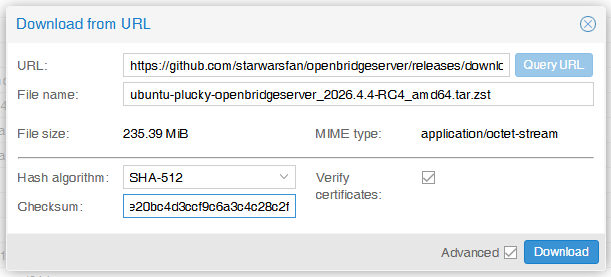
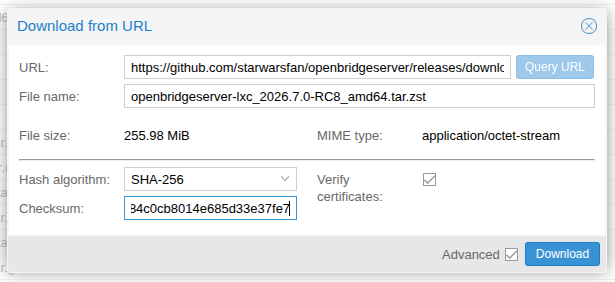
Update download instructions for LXC template

diff --git a/README.de.md b/README.de.md
@@ -69,15 +69,21 @@ Das LXC-Template enthält ein vollständiges Ubuntu 26.04-System mit **open brid
 
 **Schritt 1 — Template herunterladen**
 
-1. Auf der [Release-Seite](../../releases/latest) die URL der `.tar.zst`-Datei sowie den SHA512-Hash aus dem Abschnitt **LXC Template** kopieren.
+1. Auf der [Release-Seite](../../releases/latest) die Assets aufklappen und via rechter Maustaste die URL der `.tar.zst`-Datei der gewünschten Architektur kopieren:
+   ![ProxmoxDownloadFromURL](docs/Release-Assets.png)
 2. In der Proxmox-Weboberfläche zu **Datacenter → Storage → local → CT Templates** navigieren.
 3. **Download from URL** klicken.
 4. Die kopierte URL einfügen und auf **Query URL** klicken.
-5. Als Hash-Algorithmus **SHA512** auswählen.
-6. Den kopierten Hash einfügen.
+5. Wenn nicht bereits aktiviert, im Popup unten rechts **Advanced** aktivieren.
+5. Als Hash-Algorithmus **SHA256** auswählen.
+1. Auf der [Release-Seite](../../releases/latest) im Abschnitt **Checksums** die via Copy-Button die Checksumme des gewünschten Templates kopieren:
+   ![ProxmoxDownloadFromURL](docs/Release-Asset-Checksums.png)
+   Achtung: Wenn die Checksummen direkt aus der Spalte neben des Assets kopiert werden, muss der Prefix `SHA256:` entfernt werden, da Proxmox diesen nicht erwartet!
+6. Zurück auf der Proxmox-Weboberfläche den kopierten Hash unter **Checksum** einfügen.
+7. Das sollte jetzt beispielsweise so aussehen:
+   ![ProxmoxDownloadFromURL](docs/ProxmoxDownloadFromURL.png)
 7. Auf **Download** klicken.
 
-![ProxmoxDownloadFromURL](docs/ProxmoxDownloadFromURL.png)
 
 **Schritt 2 — Container erstellen**
 